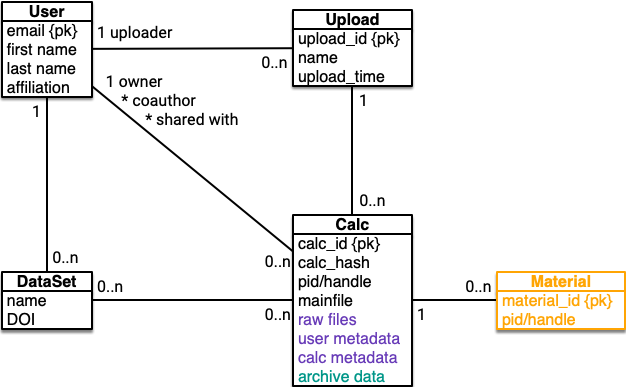
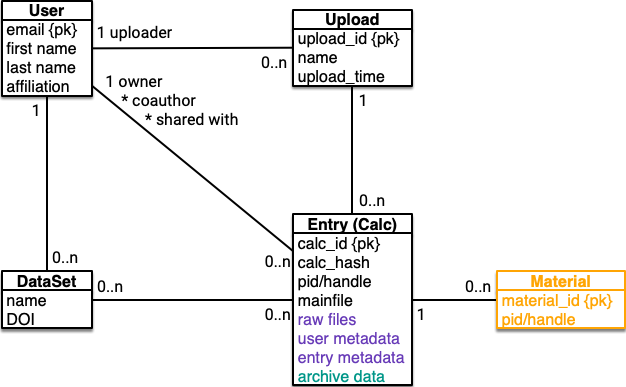
Updates to the documentation.

diff --git a/.static/css/custom.css b/.static/css/custom.css
@@ -11,10 +11,10 @@ h1, h2, .rst-content .toctree-wrapper p.caption, h3, h4, h5, h6, legend {
     display: none
 }
 
-a {
+/* a {
     color: #607D8B !important
 }
 
 a:visited {
     color: #607D8B !important
-}
+} */

diff --git a/introduction.md b/introduction.md
@@ -7,6 +7,9 @@ The original NOMAD software, developed by the
 calculations in a single central infrastructure instances that offers a variety
 of services (*repository*, *archive*, *encyclopedia*, *analytics*, *visualization*).
 
+.. figure:: nomad.png
+   :alt: nomad's overall structure
+
 This is the documentation of **nomad@FAIRDI**, the Open-Source continuation of the
 original NOMAD-coe software that reconciles the original code base,
 integrate it's services, allows 3rd parties to run individual and federated instance of
@@ -169,14 +172,18 @@ belong to one *material* based on the simulated system.
 - The `uploader` is the user that provided the upload. There is always one immutable `uploader`
 - Currently, uploads can be provided as `.zip` or `.tar.gz` files.
 
-### Calculations
-- A calculation has a unique `calc_id` that is based on the upload's id and the `mainfile`
+### Entries (Calculations, Code runs)
+- There are confusing names. Internally, in the nomad source code, the term `calc` is used.
+An entry represents a single set of input/output used and produces by an individual run of a
+DFT code. If nomad is applied to other domains, i.e. experimental material science, entries might represent
+experiments or other entities.
+- An entry (calculation) has a unique `calc_id` that is based on the upload's id and the `mainfile`
 - The `mainfile` is a upload relative path to the main output file.
 - Each calculation, when published, gets a unique `pid`. Pids are ascending intergers. For
 each `pid` a shorter `handle` is created. Handles can be registered with a handle system,
 e.g. the central nomad installation at MPCDF is registered at a MPCDF/GWDW handle system.
 - The `calc_hash` is computed from the main and other parsed raw files.
-- Calculation data comprises *user metadata* (comments, references, datasets, coauthors),
+- Entry data comprises *user metadata* (comments, references, datasets, coauthors),
 *calculation metadata* (code, version, system and symmetry, used DFT method, etc.),
 the *archive data* (a hierarchy of all parsed quantities), and the uploaded *raw files*.
 
@@ -192,23 +199,27 @@ the *archive data* (a hierarchy of all parsed quantities), and the uploaded *raw
 ### Data
 We distinguish various forms of calculation data:
 - raw data: The raw files provided by nomad users
+- (repository) metadata: All data necessary to search and inspect nomad entries.
 - archive data: The data extracted from raw files by nomad parsers and normalizers.
 This data is represented in the *meta-info* format.
 - materials data: Aggregated information about calculations that simulated the *same* material.
+
+.. figure:: datamodel_dataflow.png
+   :alt: nomad's data flow
 
 ### Metadata
 Metadata refers to those pieces of data, those quantities/attributes that we use
 to represent, identify, and index uploads and calculations in the API, search, GUI, etc.
 There are three catergories of metadata:
-- ids: attributes that are necessary to uniquely identify entities. See also :ref:`id-reference-label`.
-- user metadata: attributes provided by the user, e.g. comments, references, coauthors, datasets, etc.
-- calculation metadata: metadata parsed from raw files that describe calculations on a high level, e.g. code name, basis set, system type, etc.
+- entry metadata: attributes that are necessary to uniquely identify entities (see also :ref:`id-reference-label`), that describe the upload, processing, etc. This data is derived by the nomad infrastructure.
+- user metadata: attributes provided by the user, e.g. comments, references, coauthors, datasets, etc. This data is provided by the user.
+- domain metadata: metadata parsed from raw files that describe calculations on a high level, e.g. code name, basis set, system type, etc. This data is derived from the uploaded data.
 
 Those sets of metadata along with the actual raw and archive data are often transformed,
 passed, stored, etc. by the various nomad modules.
 
-.. figure:: datamodel_dataflow.png
-   :alt: nomad's data flow
+.. figure:: datamodel_metadataflow.png
+   :alt: nomad's metadata flow
 
 ### Implementation
 The different entities have often multiple implementations for different storage systems.

diff --git a/parser_tutorial.md b/parser_tutorial.md
@@ -268,7 +268,7 @@ Sometime a code uses a unit that is not fixed, but might be defined in the input
 other part. In this case you can use
 
 ```python
-    nomadcore.unit_conversion.unit_conversion.register_userdefined_quantity(quantity, units, value=1)
+nomadcore.unit_conversion.unit_conversion.register_userdefined_quantity(quantity, units, value=1)
 ```
 
 from python-common. With it you can (for example in the adHoc callback of a SimpleMatcher)
@@ -276,7 +276,7 @@ define the usint usrMyCodeLength (user defined units should always start with "u
 just letters) to be angstrom with
 
 ```python
-    register_userdefined_quantity("usrMyCodeLength", "angstrom")
+register_userdefined_quantity("usrMyCodeLength", "angstrom")
 ```
 
 this call *needs* to be done before any use of that unit. The unit can then be used just
@@ -300,8 +300,8 @@ The simplest way to achieve this is to define methods called onClose and then th
 For example
 
 ```python
-    def onClose_section_scf_iteration(self, backend, gIndex, section):
-        logging.getLogger("nomadcore.parsing").info("YYYY bla gIndex %d %s", gIndex, section.simpleValues)
+def onClose_section_scf_iteration(self, backend, gIndex, section):
+   logging.getLogger("nomadcore.parsing").info("YYYY bla gIndex %d %s", gIndex, section.simpleValues)
 ```
 
 defines a trigger called every time an scf iteration section is closed.
